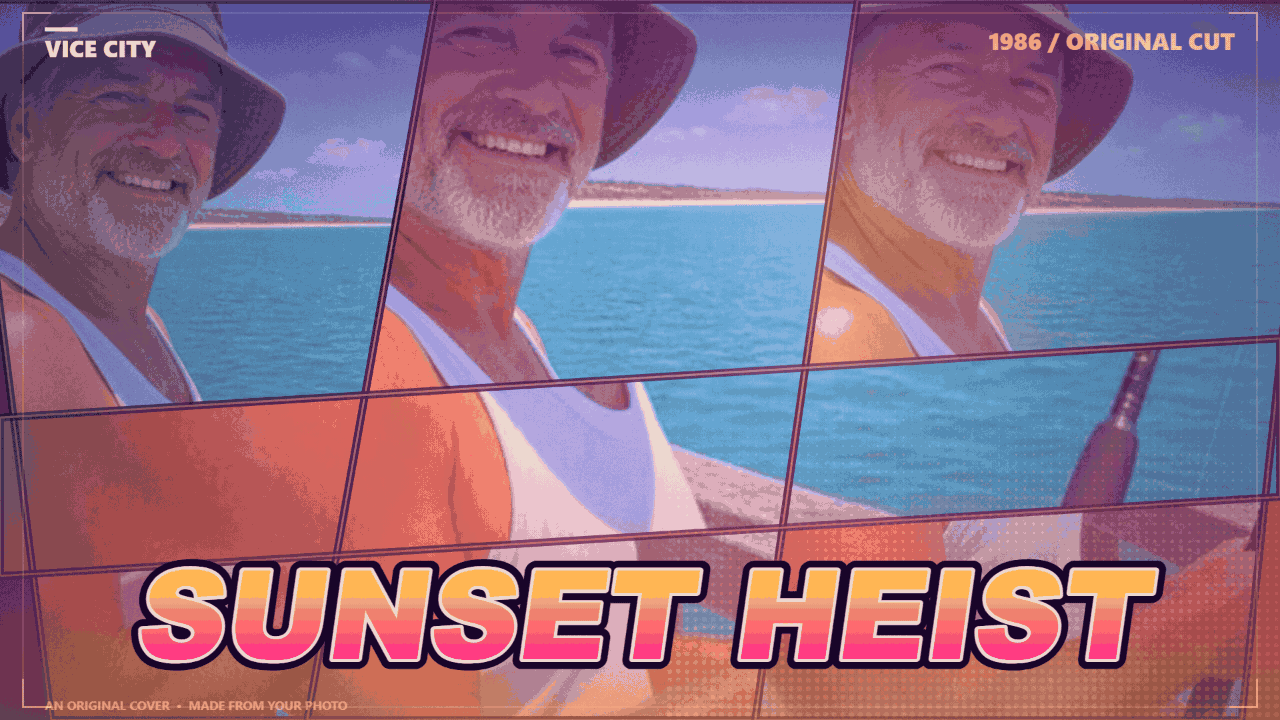
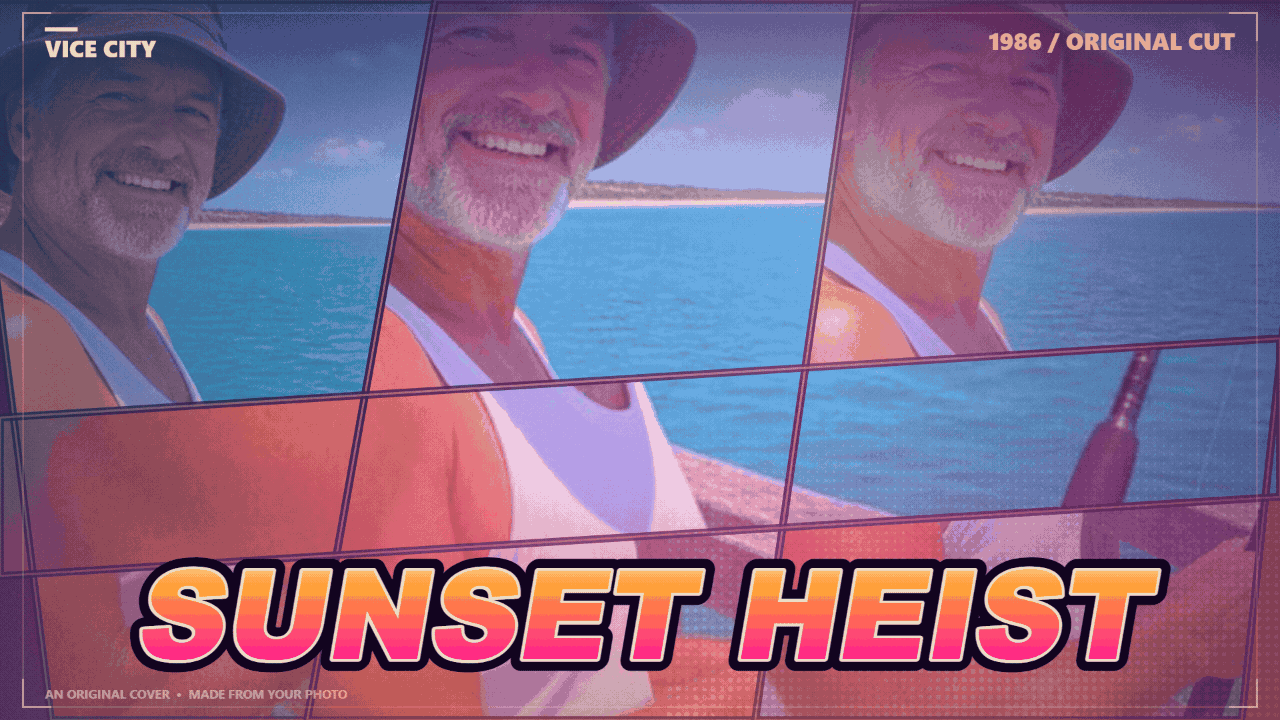
Push cover grade toward neon-noir and re-render all four screenshots
Deeper indigo shadows, hot cyan-to-magenta side light, subtle vertical glow, cooler halftone, stronger panel saturation/contrast and a tighter, heavier sheared caption. Image-generation samples unavailable (invalid credential), so original samples remain. Screenshots re-quantized at higher color depth so the new grade is visible while staying under 256 KiB.

diff --git a/app/src/grade.js b/app/src/grade.js
@@ -58,7 +58,7 @@ export function drawHalftone(ctx, w, h) {
   const step = Math.max(6, Math.round(w / 150));
   ctx.save();
   ctx.globalCompositeOperation = 'overlay';
-  ctx.fillStyle = 'rgba(255, 210, 170, 0.22)';
+  ctx.fillStyle = 'rgba(170, 225, 255, 0.20)';
   for (let y = Math.floor(h * 0.56); y < h; y += step) {
     const fade = (y - h * 0.56) / (h * 0.44);
     for (let x = Math.floor(w * 0.52); x < w; x += step) {
@@ -71,42 +71,52 @@ export function drawHalftone(ctx, w, h) {
   ctx.restore();
 }
 
-/** The magenta / orange / violet sunset wash, a warm sun flare and a soft corner vignette. */
+/** The neon-noir grade: indigo shadows, hot magenta light, a cool vertical glow and a deep vignette. */
 export function applyViceCityGrade(ctx, w, h) {
   ctx.save();
 
-  // Violet sky at the top, clean middle, hot pink and orange toward the street.
+  // Deep indigo at the top, a violet middle, hot magenta low down and only a trace of sunset orange.
   const wash = ctx.createLinearGradient(0, 0, 0, h);
-  wash.addColorStop(0, 'rgba(58, 16, 122, 0.55)');
-  wash.addColorStop(0.28, 'rgba(126, 26, 140, 0.12)');
-  wash.addColorStop(0.62, 'rgba(236, 40, 122, 0.20)');
-  wash.addColorStop(0.85, 'rgba(255, 76, 84, 0.42)');
-  wash.addColorStop(1, 'rgba(255, 150, 46, 0.50)');
+  wash.addColorStop(0, 'rgba(14, 8, 62, 0.74)');
+  wash.addColorStop(0.26, 'rgba(74, 18, 132, 0.18)');
+  wash.addColorStop(0.55, 'rgba(168, 26, 158, 0.20)');
+  wash.addColorStop(0.78, 'rgba(255, 28, 130, 0.34)');
+  wash.addColorStop(1, 'rgba(255, 96, 58, 0.40)');
   ctx.fillStyle = wash;
   ctx.fillRect(0, 0, w, h);
 
-  // Sun flare, high and off-centre, in screen blend so the highlights stay luminous.
+  // A high flare, now pink-white at its core and fading into violet rather than amber.
   ctx.globalCompositeOperation = 'screen';
   const sun = ctx.createRadialGradient(w * 0.68, h * 0.30, 0, w * 0.68, h * 0.30, w * 0.62);
-  sun.addColorStop(0, 'rgba(255, 176, 84, 0.46)');
-  sun.addColorStop(0.35, 'rgba(255, 90, 120, 0.18)');
-  sun.addColorStop(1, 'rgba(255, 60, 160, 0)');
+  sun.addColorStop(0, 'rgba(255, 214, 160, 0.40)');
+  sun.addColorStop(0.30, 'rgba(255, 80, 150, 0.22)');
+  sun.addColorStop(1, 'rgba(180, 40, 220, 0)');
   ctx.fillStyle = sun;
   ctx.fillRect(0, 0, w, h);
 
-  // A cool cyan rim on the left keeps the neon palette from turning into plain red.
-  const neon = ctx.createLinearGradient(0, h * 0.25, w, h * 0.75);
-  neon.addColorStop(0, 'rgba(30, 220, 230, 0.16)');
-  neon.addColorStop(0.45, 'rgba(120, 40, 200, 0)');
-  neon.addColorStop(1, 'rgba(255, 40, 130, 0.18)');
+  // Cyan from the left, magenta from the right: reflected neon rather than a flat warm wash.
+  const neon = ctx.createLinearGradient(0, 0, w, 0);
+  neon.addColorStop(0, 'rgba(0, 226, 255, 0.26)');
+  neon.addColorStop(0.28, 'rgba(0, 226, 255, 0.04)');
+  neon.addColorStop(0.62, 'rgba(255, 20, 150, 0.06)');
+  neon.addColorStop(1, 'rgba(255, 20, 150, 0.28)');
   ctx.fillStyle = neon;
+  ctx.fillRect(0, 0, w, h);
+
+  // A subtle vertical light gradient: cool glow up top, warm neon bleed at the foot.
+  const shaft = ctx.createLinearGradient(0, 0, 0, h);
+  shaft.addColorStop(0, 'rgba(120, 220, 255, 0.14)');
+  shaft.addColorStop(0.42, 'rgba(120, 220, 255, 0)');
+  shaft.addColorStop(0.72, 'rgba(255, 40, 170, 0.06)');
+  shaft.addColorStop(1, 'rgba(255, 40, 170, 0.12)');
+  ctx.fillStyle = shaft;
   ctx.fillRect(0, 0, w, h);
   ctx.globalCompositeOperation = 'source-over';
 
-  // Vignette last: darker corners make the lettering pop.
+  // Vignette last: the deeper indigo corners make the lettering pop.
   const vig = ctx.createRadialGradient(w * 0.5, h * 0.46, Math.min(w, h) * 0.24, w * 0.5, h * 0.5, Math.max(w, h) * 0.78);
-  vig.addColorStop(0, 'rgba(12, 4, 28, 0)');
-  vig.addColorStop(1, 'rgba(12, 4, 28, 0.62)');
+  vig.addColorStop(0, 'rgba(6, 2, 26, 0)');
+  vig.addColorStop(1, 'rgba(6, 2, 26, 0.76)');
   ctx.fillStyle = vig;
   ctx.fillRect(0, 0, w, h);
   ctx.restore();

diff --git a/app/src/cover.js b/app/src/cover.js
@@ -26,10 +26,10 @@ export function defaultPanelSettings() {
 }
 
 const PANEL_FILTERS = [
-  'saturate(1.22) contrast(1.10)',
-  'saturate(1.42) contrast(1.18)',
-  'saturate(1.28) contrast(1.14)',
-  'saturate(1.55) contrast(1.22)',
+  'saturate(1.30) contrast(1.16)',
+  'saturate(1.55) contrast(1.24)',
+  'saturate(1.38) contrast(1.20)',
+  'saturate(1.65) contrast(1.28)',
 ];
 
 /** Fills one panel's bounding box with a cropped, panned and zoomed source photo. */
@@ -130,7 +130,7 @@ export function drawBoldCaption(ctx, w, h, caption) {
   ctx.font = fontFor(size);
   const lineHeight = size * 0.92;
   const bottom = h * 0.915;
-  const shear = 0.14;
+  const shear = 0.17;
   ctx.translate(w / 2 + shear * bottom, 0);
   ctx.transform(1, 0, -shear, 1, 0, 0);
   ctx.textAlign = 'center';
@@ -139,19 +139,19 @@ export function drawBoldCaption(ctx, w, h, caption) {
   ctx.miterLimit = 2;
 
   const fill = ctx.createLinearGradient(0, bottom - (lines.length - 1) * lineHeight - size, 0, bottom);
-  fill.addColorStop(0, '#fff2bd');
-  fill.addColorStop(0.42, '#ffb347');
-  fill.addColorStop(1, '#ff2e88');
+  fill.addColorStop(0, '#fff4c8');
+  fill.addColorStop(0.42, '#ff9c2e');
+  fill.addColorStop(1, '#ff1f8c');
 
   lines.forEach((line, i) => {
     const baseline = bottom - (lines.length - 1 - i) * lineHeight;
-    ctx.fillStyle = 'rgba(24, 4, 44, 0.92)';
+    ctx.fillStyle = 'rgba(14, 2, 34, 0.94)';
     ctx.fillText(line, size * 0.035, baseline + size * 0.045);
-    ctx.lineWidth = size * 0.17;
-    ctx.strokeStyle = '#190629';
+    ctx.lineWidth = size * 0.20;
+    ctx.strokeStyle = '#12041f';
     ctx.strokeText(line, 0, baseline);
-    ctx.lineWidth = size * 0.055;
-    ctx.strokeStyle = 'rgba(255, 240, 214, 0.9)';
+    ctx.lineWidth = size * 0.05;
+    ctx.strokeStyle = 'rgba(255, 240, 214, 0.92)';
     ctx.strokeText(line, 0, baseline);
     ctx.fillStyle = fill;
     ctx.fillText(line, 0, baseline);
